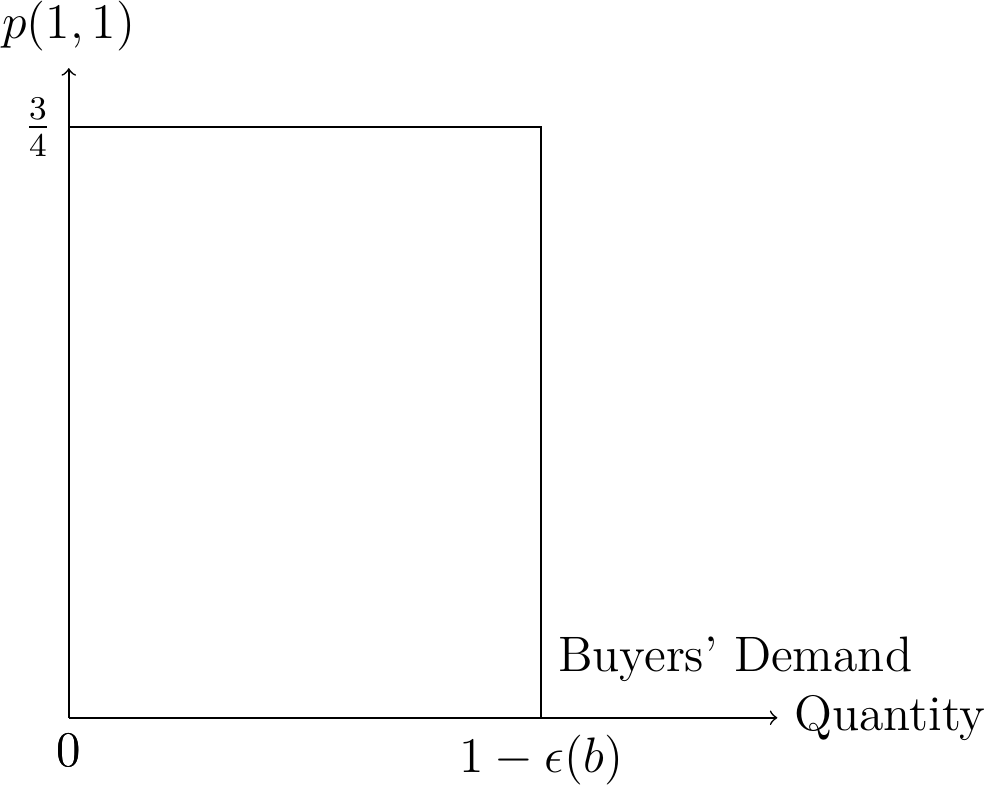
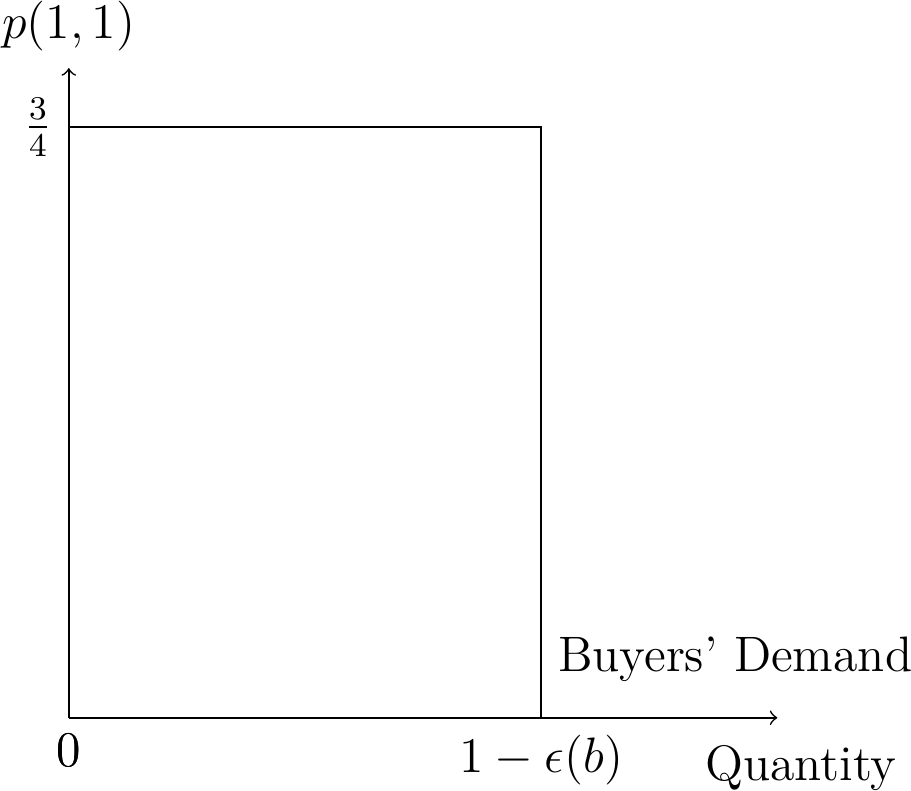
m e

diff --git a/docs/slides/tikz_charts/jmp.tex b/docs/slides/tikz_charts/jmp.tex
@@ -361,7 +361,9 @@ $ $
 	
 	\begin{tikzpicture}[scale=1]
 	
-	\draw [->] (0,0) node [below] {0} -- (0,0) -- (6,0) node [right] {Quantity};
+	\draw [->] (0,0) node [below] {0} -- (0,0) -- (6,0);
+	
+	\node [below] at (6.2,-.1) {Quantity};
 	
 	\draw [->] (0,0) node [below] {0} -- (0,0) -- (0,5.5) node [above] {$p(1,1)$};
 	
@@ -384,7 +386,9 @@ $ $
 	
 	\begin{tikzpicture}[scale=1]
 	
-	\draw [->] (0,0) node [below] {0} -- (0,0) -- (6,0) node [right] {Quantity};
+	\draw [->] (0,0) node [below] {0} -- (0,0) -- (6,0);
+
+	\node [below] at (6.2,-.1) {Quantity};
 	
 	\draw [->] (0,0) node [below] {0} -- (0,0) -- (0,5.5) node [above] {$p(1,1)$};
 	
@@ -417,7 +421,9 @@ $ $
 	
 	\begin{tikzpicture}[scale=1]
 	
-	\draw [->] (0,0) node [below] {0} -- (0,0) -- (6,0) node [right] {Quantity};
+	\draw [->] (0,0) node [below] {0} -- (0,0) -- (6,0);
+
+	\node [below] at (6.2,-.1) {Quantity};
 	
 	\draw [->] (0,0) node [below] {0} -- (0,0) -- (0,5.5) node [above] {$p(1,1)$};
 	
